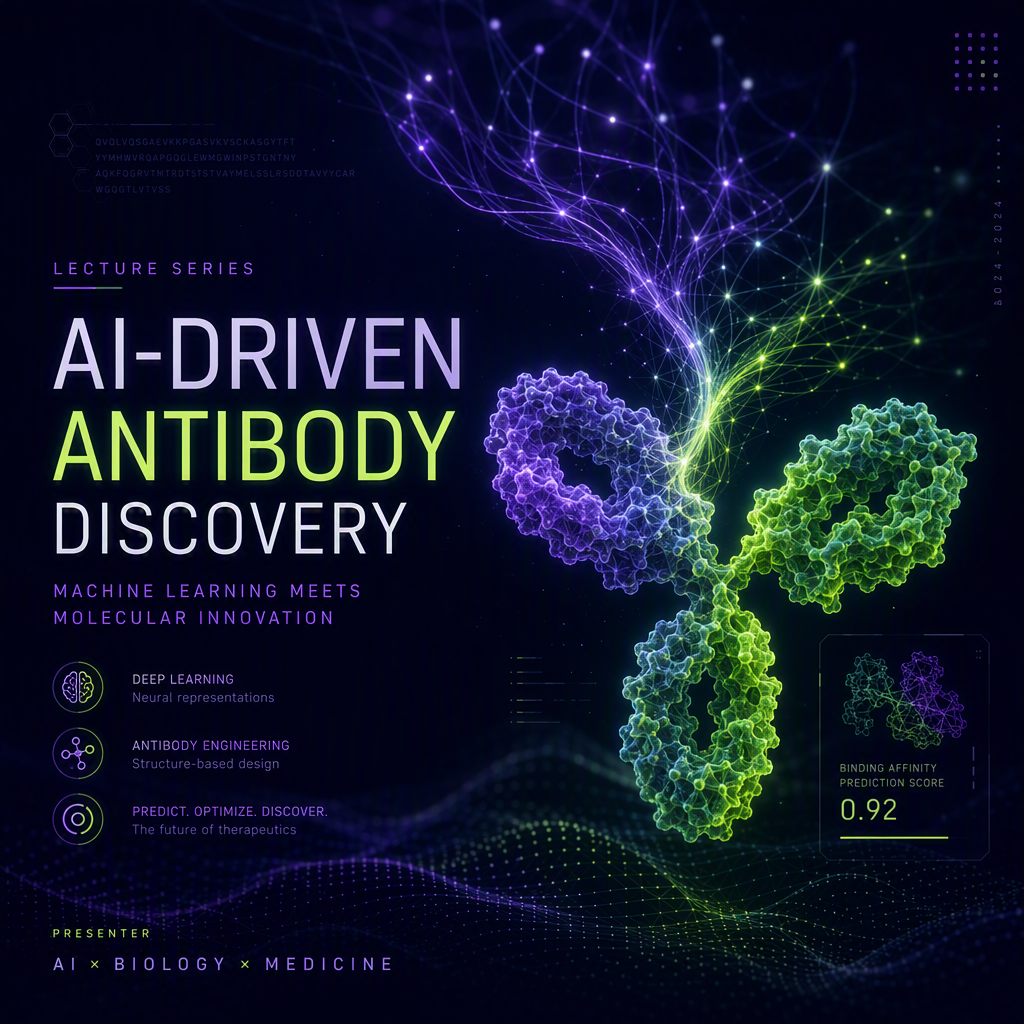
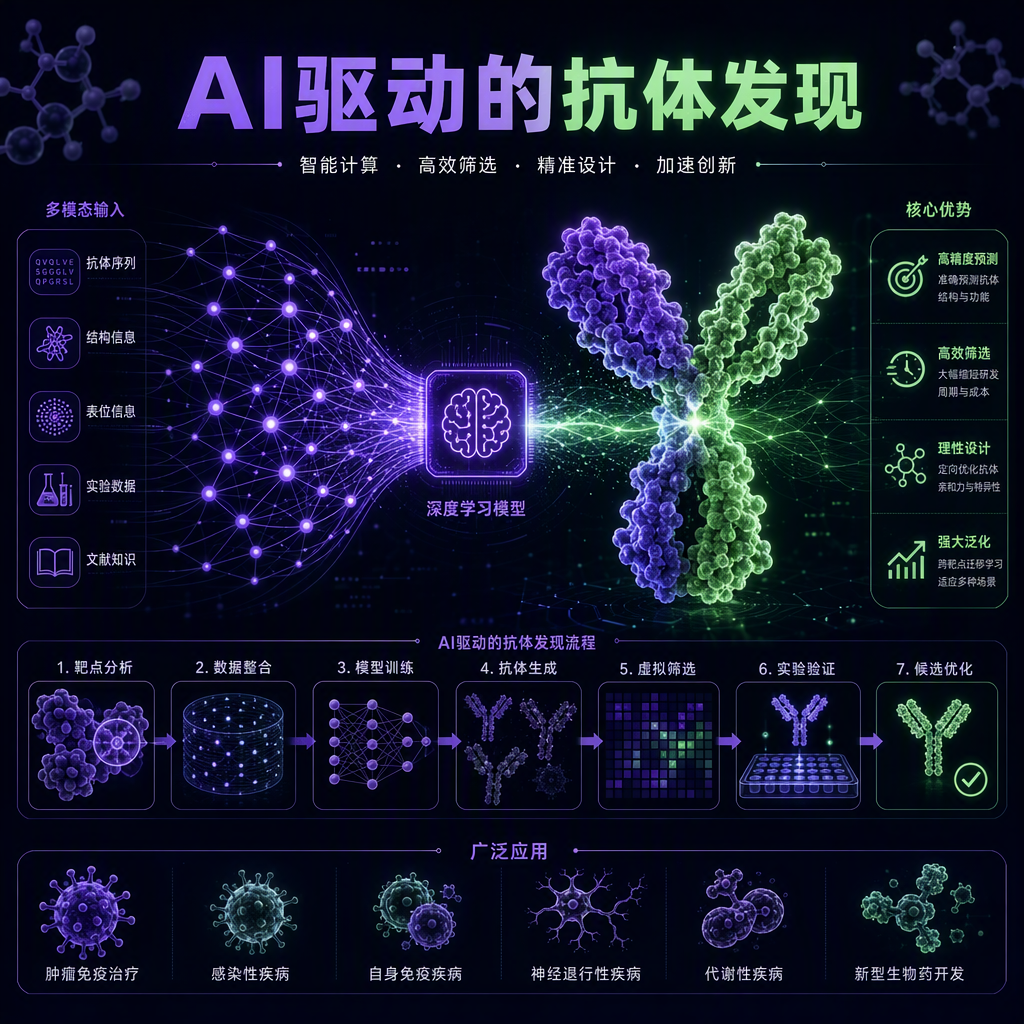
feat(images): 技术平台三支柱配图·Agent湿实验卡暗色化·全站图中文化
- technology.php 三个 pillar 区块加配图(tech-data/ai/wetlab),CSS 补 .pillar-media img
- agent.php #wetlab 卡片白底改暗色系(#0d1122+暗边框+亮字)
- 9 张现有图中文化重生(agent-hero/international/location/education-banner/forum×3/lab-scene/hero-home)
- 统一深色科技抽象风,紫绿渐变;GPT-image-2 中文渲染准确

diff --git a/public/assets/css/style.css b/public/assets/css/style.css
@@ -126,6 +126,14 @@ h1, h2, h3, h4 { line-height: 1.25; font-weight: 800; letter-spacing: -.01em; }
   position: relative; overflow: hidden;
 }
 .brand .logo svg { width: 22px; height: 22px; }
+/* 图片 logo：导航栏白底加紫色底衬保证白字可读；页脚深色底直接透明显示 */
+.brand-logo { display: block; height: 52px; width: auto; }
+.nav .brand-logo {
+  height: 46px; padding: 7px 14px; border-radius: 13px;
+  background: var(--grad-brand); box-shadow: var(--sh-purple);
+}
+.nav--on-dark .brand-logo { background: transparent; box-shadow: none; padding: 0; height: 52px; }
+.footer .brand-logo { height: 56px; }
 .brand small { display: block; font-size: 11px; font-weight: 600; color: var(--ink-3); letter-spacing: .06em; }
 .nav-links { display: flex; align-items: center; gap: 4px; }
 .nav-links a {
@@ -325,6 +333,8 @@ h1, h2, h3, h4 { line-height: 1.25; font-weight: 800; letter-spacing: -.01em; }
 
 /* 深色页面顶部导航：hero 上透明，滚动后实底深色 */
 .nav--on-dark { background: transparent; backdrop-filter: none; }
+/* 实心深色导航：顶部即不透明（复用 nav--on-dark 的白字/logo/按钮规则） */
+.nav--solid-dark { background: rgba(7,10,20,.92); backdrop-filter: blur(16px) saturate(160%); border-bottom-color: rgba(255,255,255,.08); }
 .nav--on-dark .brand,
 .nav--on-dark .nav-links a { color: rgba(255,255,255,.9); }
 .nav--on-dark .nav-links a:hover,
@@ -469,6 +479,7 @@ h1, h2, h3, h4 { line-height: 1.25; font-weight: 800; letter-spacing: -.01em; }
               radial-gradient(50% 60% at 80% 70%, rgba(0,224,164,.30), transparent 60%), #0d1122; }
 .pillar-media::after { content: ""; position: absolute; inset: 0;
   background-image: radial-gradient(rgba(255,255,255,.12) 1px, transparent 1px); background-size: 22px 22px; }
+.pillar-media img { position: relative; z-index: 1; width: 100%; height: 100%; object-fit: cover; display: block; }
 .section-light .pillar-media { border-color: var(--line); }
 @media (max-width: 860px) {
   .pillar { grid-template-columns: 1fr; gap: 28px; }
@@ -683,3 +694,8 @@ h1, h2, h3, h4 { line-height: 1.25; font-weight: 800; letter-spacing: -.01em; }
 
 /* 帖子详情正文中的用户上传图片防溢出 */
 main article img { max-width: 100%; height: auto; border-radius: 6px; }
+
+/* 反馈提交结果提示条（#contact 表单上方，深色区适配） */
+.fb-notice { max-width: 640px; margin: 0 auto 18px; padding: 12px 18px; border-radius: var(--radius-sm); font-size: 14px; font-weight: 600; text-align: center; }
+.fb-notice.fb-ok { background: var(--green-100); color: #06795a; border: 1px solid #b6f2e2; }
+.fb-notice.fb-err { background: #fdecea; color: #c0392b; border: 1px solid #f5c6c0; }

diff --git a/public/agent.php b/public/agent.php
@@ -1,6 +1,6 @@
 <?php
 require __DIR__ . '/../app/bootstrap.php';
-$active = 'agent'; $navOnDark = false; $contactHref = 'index.php#contact';
+$active = 'agent'; $navOnDark = false; $navSolidDark = true; $contactHref = 'index.php#contact';
 $caps   = (new Collection('content_cards'))->published("grp='agent_capability'");
 $matrix = (new Collection('content_cards'))->published("grp='agent_matrix'");
 ?>
@@ -159,10 +159,10 @@ $matrix = (new Collection('content_cards'))->published("grp='agent_matrix'");
       <div class="flow-step wet"><div class="n" style="background:var(--grad-green);color:#04352a">🔬</div><h4>功能验证</h4><p>结合活性与功能实验验证</p><span class="tag-mini" style="background:var(--green-100);color:#06a97c">湿 · 实验</span><span class="flow-arrow">→</span></div>
       <div class="flow-step" style="background:var(--grad-brand)"><div class="n" style="background:rgba(255,255,255,.2)">📦</div><h4 style="color:#fff">结果交付</h4><p style="color:rgba(255,255,255,.85)">数据回流，与 AI 预测双向溯源</p><span class="tag-mini" style="background:rgba(255,255,255,.2);color:#fff">闭环</span></div>
     </div>
-    <div id="wetlab" class="reveal d1" style="margin-top:32px;display:grid;grid-template-columns:1fr 1fr;gap:28px;align-items:center;background:#fff;border:1px solid var(--line);border-radius:var(--radius-lg);padding:32px;box-shadow:var(--sh)">
+    <div id="wetlab" class="reveal d1" style="margin-top:32px;display:grid;grid-template-columns:1fr 1fr;gap:28px;align-items:center;background:#0d1122;border:1px solid var(--line-dark);border-radius:var(--radius-lg);padding:32px;box-shadow:var(--sh-lg)">
       <div>
-        <h3 style="font-size:24px"><?= snip('agent.wetlab.title') ?></h3>
-        <p style="color:var(--ink-3);margin-top:10px"><?= snip('agent.wetlab.body') ?></p>
+        <h3 style="font-size:24px;color:#fff"><?= snip('agent.wetlab.title') ?></h3>
+        <p style="color:var(--ink-on-dark-2);margin-top:10px"><?= snip('agent.wetlab.body') ?></p>
         <div class="tag-row" style="margin-top:16px"><span class="tag">表达纯化</span><span class="tag">亲和力测定</span><span class="tag green">功能验证</span><span class="tag">结构解析</span></div>
         <a href="#" class="btn btn-green" style="margin-top:20px" data-demo="正式版将开放在线下单">🧪 一键下单湿实验</a>
       </div>

diff --git a/public/technology.php b/public/technology.php
@@ -92,7 +92,7 @@ $active = 'technology'; $navOnDark = true; $contactHref = 'index.php#contact';
         </ul>
         <a href="agent.php" class="link-more"><?= snip('tech.p1.link') ?></a>
       </div>
-      <div class="pillar-media" aria-hidden="true"></div>
+      <div class="pillar-media"><img src="assets/images/tech-data.png" alt="数据训练" onerror="this.remove()"></div>
     </div>
   </div>
 </section>
@@ -113,7 +113,7 @@ $active = 'technology'; $navOnDark = true; $contactHref = 'index.php#contact';
         </ul>
         <a href="agent.php" class="link-more"><?= snip('tech.p2.link') ?></a>
       </div>
-      <div class="pillar-media" aria-hidden="true"></div>
+      <div class="pillar-media"><img src="assets/images/tech-ai.png" alt="AI 算法" onerror="this.remove()"></div>
     </div>
   </div>
 </section>
@@ -134,7 +134,7 @@ $active = 'technology'; $navOnDark = true; $contactHref = 'index.php#contact';
         </ul>
         <a href="agent.php" class="link-more"><?= snip('tech.p3.link') ?></a>
       </div>
-      <div class="pillar-media" aria-hidden="true"></div>
+      <div class="pillar-media"><img src="assets/images/tech-wetlab.png" alt="自动化湿实验" onerror="this.remove()"></div>
     </div>
   </div>
 </section>
